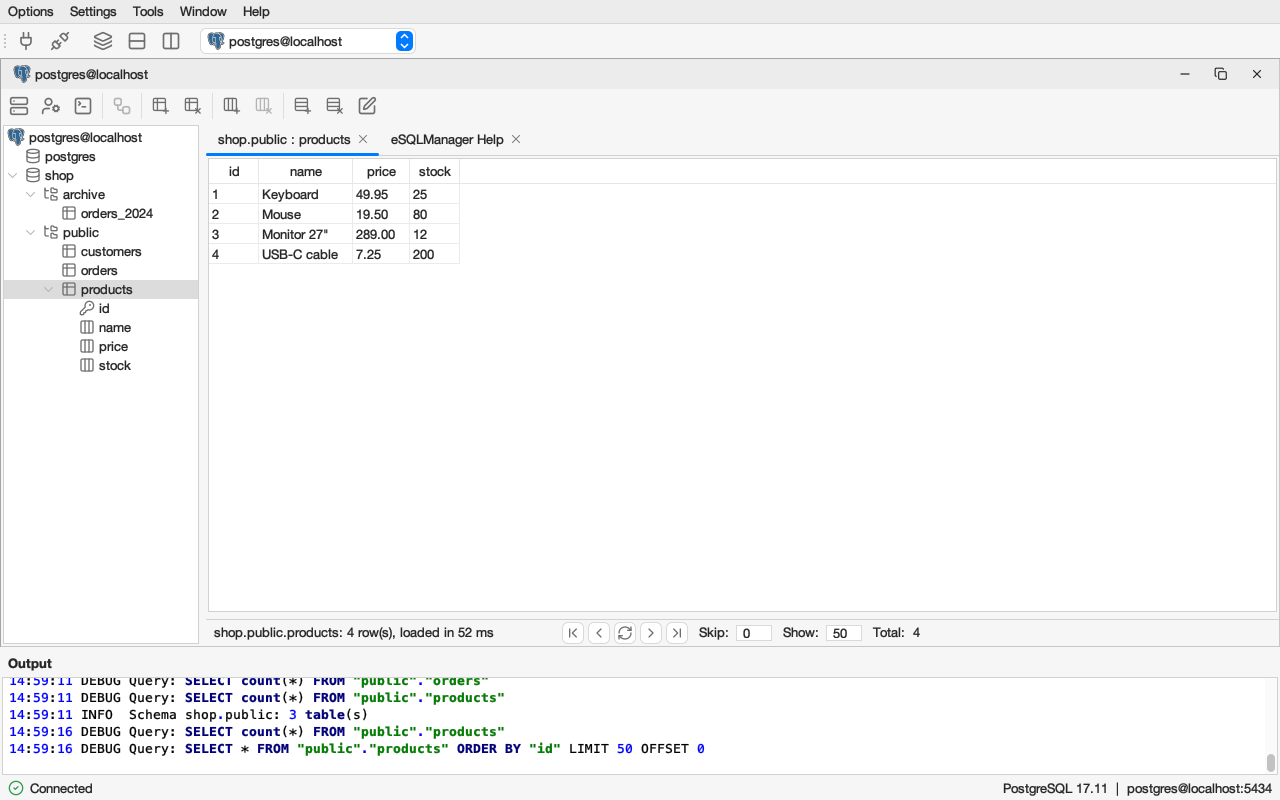
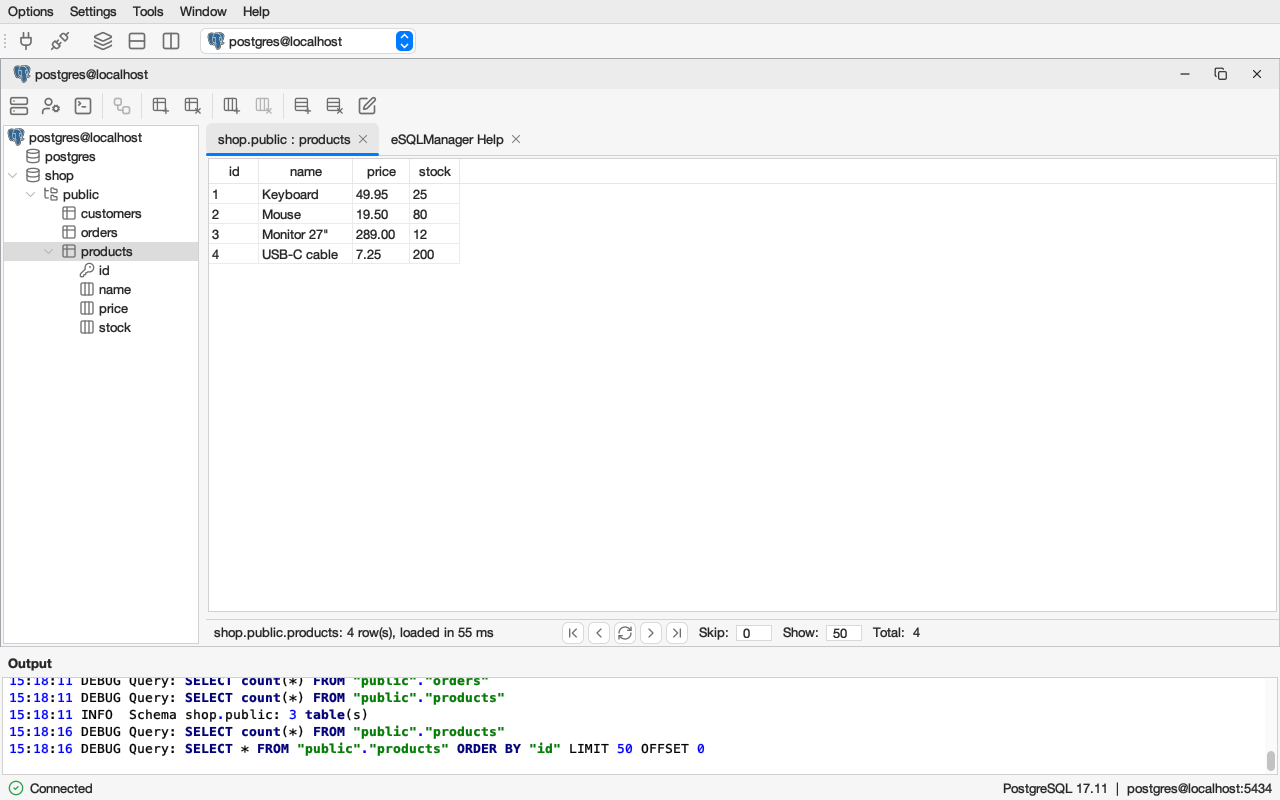
feat: selected tab stands out, new screenshots
Claude-Session: https://claude.ai/code/session_01TpgfMUNA4K1qpyx5mWFodg

Changed region(s): [[0.0, 0.2188, 0.1562, 0.4688], [0.0, 0.8438, 0.0312, 0.9375]]

diff --git a/src/main/java/nl/errorsoft/esql/settings/Appearance.java b/src/main/java/nl/errorsoft/esql/settings/Appearance.java
@@ -66,7 +66,7 @@ public enum Appearance {
 
 	/**
 	 * FlatLaf defaults of eSQLManager, in FlatLaf properties syntax so that the colours are derived from the theme. The title bar of a connection window is the
-	 * panel background slightly darker, inactive titles use the disabled foreground. Split pane dividers are thin and flat, without grip dots or arrows.
+	 * panel background slightly darker, inactive titles use the disabled foreground. Split pane dividers are thin and flat, without grip dots or arrows. The selected tab has a darker background and the accent underline, also when the focus is elsewhere.
 	 */
 	private static final Map<String, String> FLAT_DEFAULTS = Map.ofEntries(Map.entry("InternalFrame.activeTitleBackground", "darken(@background,4%)"),
 		Map.entry("InternalFrame.activeTitleForeground", "@foreground"), Map.entry("InternalFrame.inactiveTitleBackground", "@background"),
@@ -75,7 +75,8 @@ public enum Appearance {
 		Map.entry("InternalFrame.buttonPressedBackground", "darken($InternalFrame.activeTitleBackground,14%,derived)"),
 		Map.entry("InternalFrame.activeBorderColor", "$Component.borderColor"), Map.entry("InternalFrame.inactiveBorderColor", "$Component.borderColor"),
 		Map.entry("InternalFrameTitlePane.border", "0,12,0,4"), Map.entry("SplitPane.dividerSize", "5"), Map.entry("SplitPaneDivider.style", "plain"),
-		Map.entry("SplitPaneDivider.gripDotCount", "0"), Map.entry("SplitPaneDivider.draggingColor", "$Component.focusColor"));
+		Map.entry("SplitPaneDivider.gripDotCount", "0"), Map.entry("SplitPaneDivider.draggingColor", "$Component.focusColor"),
+		Map.entry("TabbedPane.selectedBackground", "darken(@background,6%)"), Map.entry("TabbedPane.inactiveUnderlineColor", "$TabbedPane.underlineColor"));
 
 	/** The title bar buttons are Lucide icons, coloured by {@link TitleButtonIcon} at paint time so that they follow the theme. */
 	private static void installTitleIcons() {

diff --git a/CLAUDE.md b/CLAUDE.md
@@ -55,7 +55,7 @@ Java Swing database manager (originally an Errorsoft graduation project, 2002-20
 * Destructive actions (create and drop database) are in the context menus of the tree, not in the toolbar of the connection window. Closing a connection window asks "Disconnect from <title>?" (Disconnect / Cancel).
 * The output panel is a read-only `RSyntaxTextArea` with SQL colouring (`ui.editor.EditorTheme`, same theme as the query editor): it shows the log exactly as written.
 * The output panel does not wrap lines (re-wrapping a long log made resizing slow), keeps at most 200000 characters, and the split pane uses continuous layout with `resizeWeight` 1.0.
-* FlatLaf defaults of the application are set centrally in `settings.Appearance` as FlatLaf global extra defaults, so they follow the theme and survive a change of look and feel: the title bar of the connection window (30px high, panel background slightly darker, inactive titles in the disabled foreground, Lucide buttons drawn by `ui.icon.TitleButtonIcon`, the server icon as frame icon) and thin flat split pane dividers. Split panes have no one-touch arrows.
+* FlatLaf defaults of the application are set centrally in `settings.Appearance` as FlatLaf global extra defaults, so they follow the theme and survive a change of look and feel: the title bar of the connection window (30px high, panel background slightly darker, inactive titles in the disabled foreground, Lucide buttons drawn by `ui.icon.TitleButtonIcon`, the server icon as frame icon) and thin flat split pane dividers, and a selected tab with a darker background and the accent underline also without focus. A tab that is opened is always put in front (`setSelectedComponent`). Split panes have no one-touch arrows.
 * The status bar of the application shows the state with its light on the left and the server and account of the active connection on the right (`ConnectionWindowCC.showStatusInfo`). What a connection did last ("shop: 4 table(s) opened in the designer") is shown in the status bar below the tabs of that connection's window (`ConnectionWindowUI.setStatus`), on the right. A message belongs to a tab (kept as a client property of the tab component): `setStatus(text)` gives it to the tab in front, `setStatus(tab, text)` (`ConnectionWindowCC.setStatusDetail(tab, ...)`, used by `QueryCC` for its query tab) to a given tab, and switching tabs shows the message of the new tab ("Ready" when it has none); the paging buttons of the table data (`TableDataView.getNavigationBar`) sit on the left of the same bar while the data tab is in front.
 
 ### Logging and output
